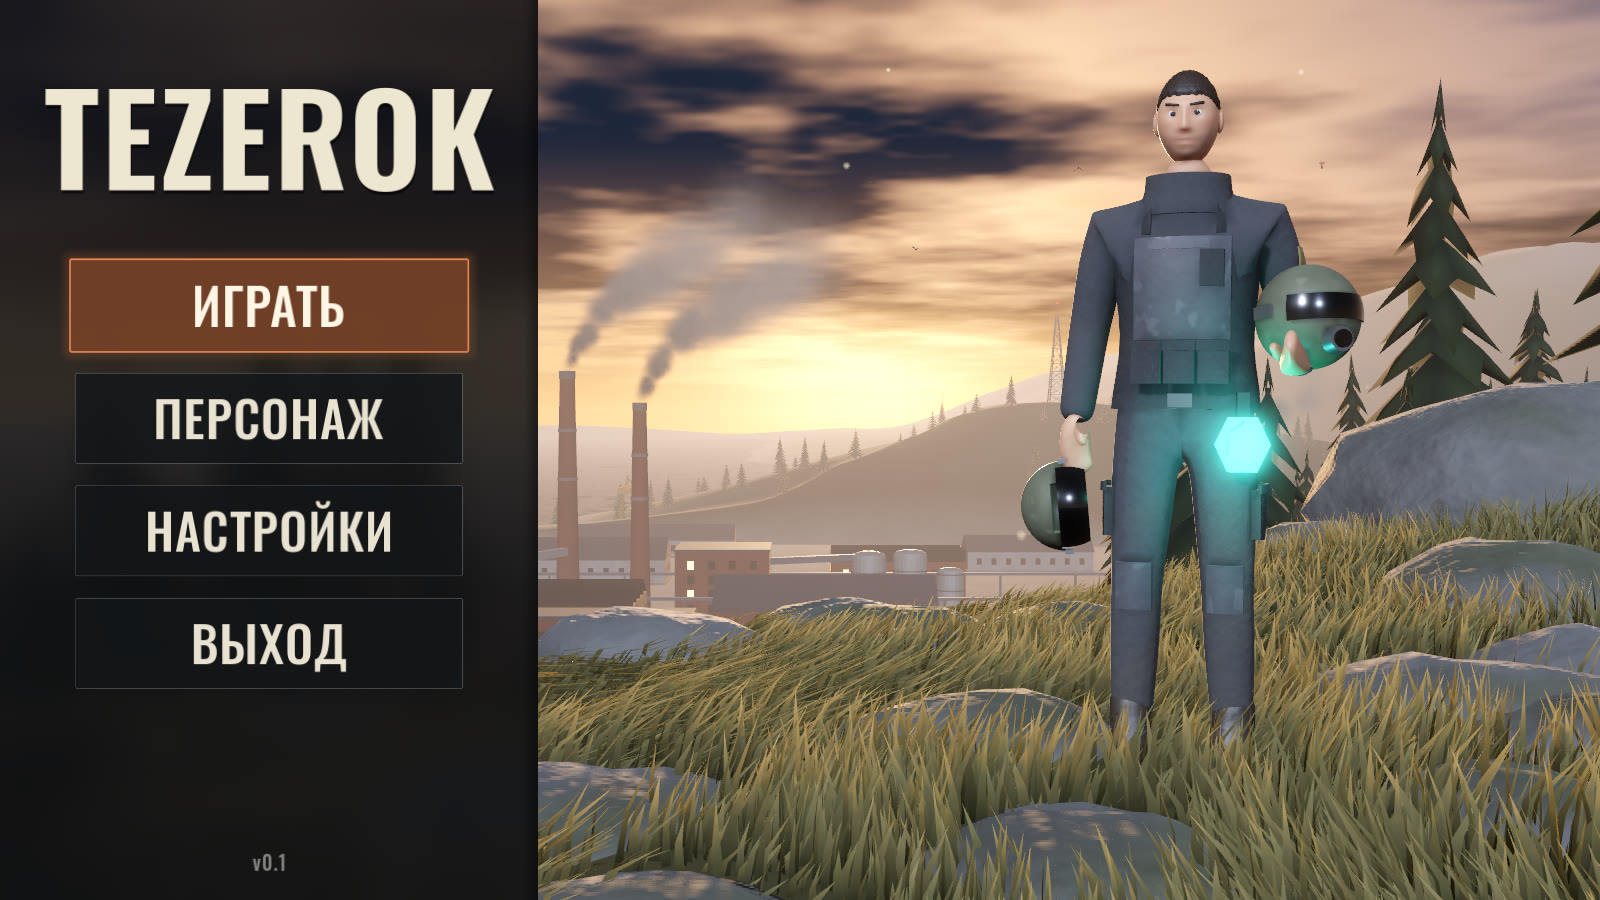
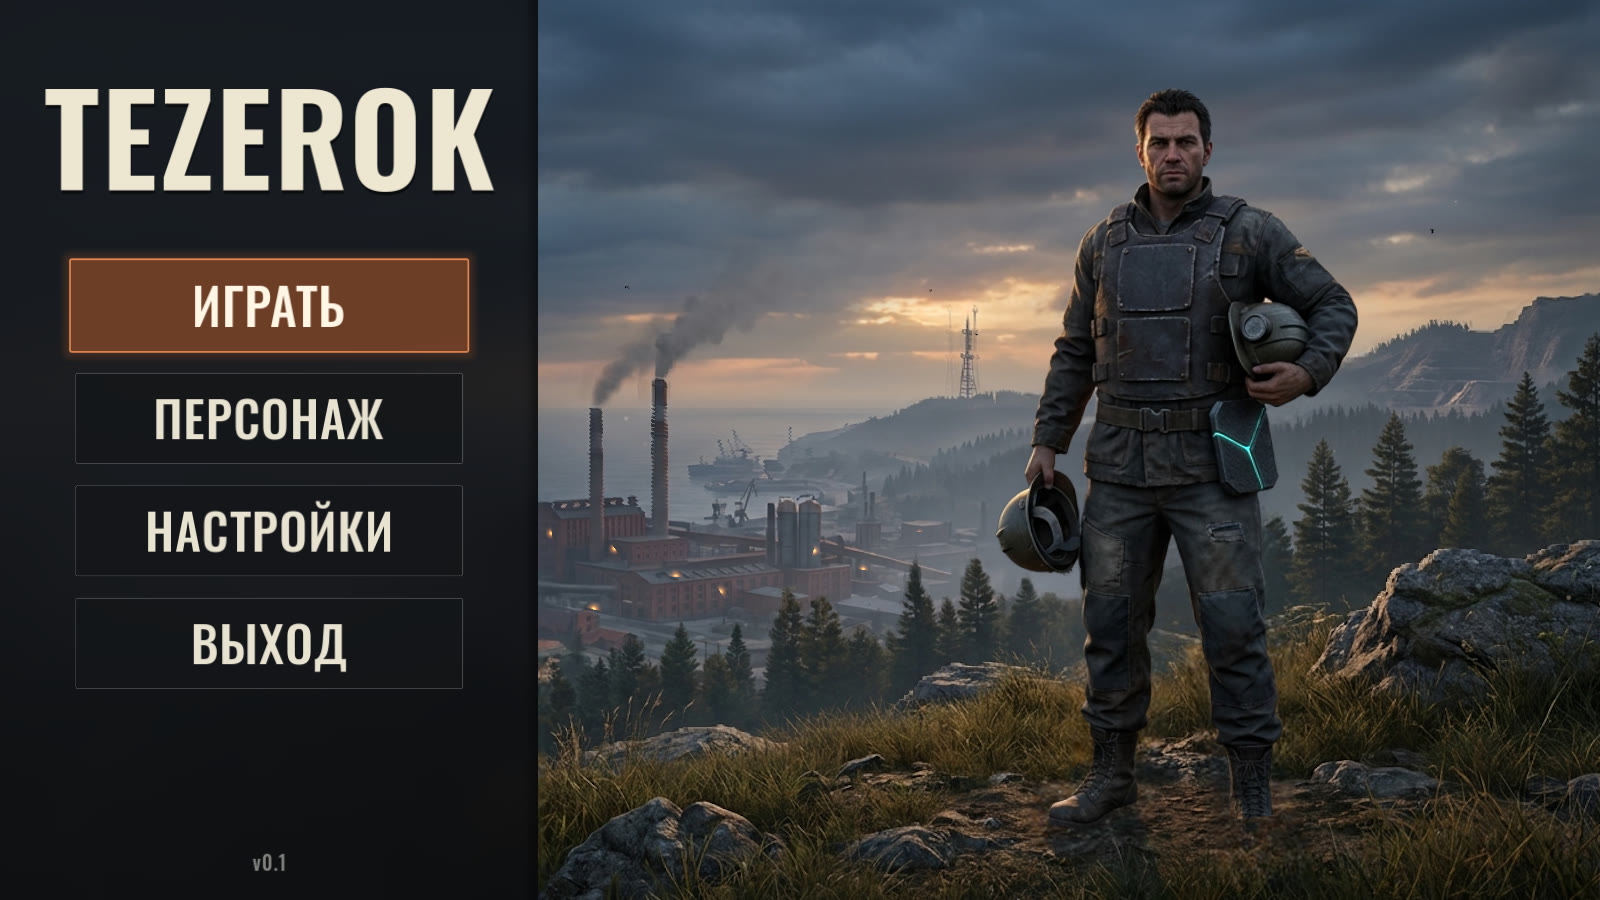
README: ИИ-конвейер реалистичного меню, новый скриншот

diff --git a/README.md b/README.md
@@ -1,6 +1,6 @@
 # TEZEROK
 
-Игра на **Godot 4.7**. Этап 1 — главное меню с живой 3D-сценой; модели сделаны в **Blender 5.2**.
+Игра на **Godot 4.7**. Этап 1 — главное меню с живой фотореалистичной 3D-сценой; модели сделаны с помощью ИИ и **Blender 5.2**.
 
 ![Главное меню](docs/main_menu.jpg)
 
@@ -9,27 +9,42 @@
 2. Откройте `project.godot` и нажмите **F5**. При первом открытии Godot импортирует модели — это займёт около минуты.
 
 ## Что есть в меню
-- **Персонаж**: куртка, бронежилет с подсумками, наколенники, ботинки, шлем в правой руке, шлем-респиратор под левой рукой и светящийся модуль на бедре. Зацикленная idle-анимация на 8 секунд: дыхание, лёгкое покачивание, поворот головы, покачивание шлема в руке.
-- **Живой фон**: облака плывут, из заводских труб идёт дым, трава и сосны качаются на ветру, мигает маяк на радиовышке, над долиной летают птицы, в воздухе висят пылинки, свечение модуля пульсирует. Камера слегка дрейфует и даёт параллакс за мышью.
+- **Фотореалистичная сцена по концепту**: фон и персонаж восстановлены из концепт-арта ИИ-моделями (см. ниже) и стоят в 3D — камера слегка дрейфует и даёт параллакс за мышью.
+- **Персонаж**: рельефная 3D-модель с ригом из 20 костей и зацикленной idle-анимацией на 8 секунд — дыхание, лёгкое покачивание, поворот головы, покачивание шлема в руке; модуль на бедре пульсирует голубым.
+- **Живой фон**: облака плывут, из труб идёт дым, по долине ползёт дымка, трава и деревья качаются на ветру, море рябит, по земле и персонажу проходят тени облаков, мигает маяк на вышке, мерцают огни завода, летают птицы, в воздухе висят пылинки.
 - **Кнопки**: «ИГРАТЬ», «ПЕРСОНАЖ» и «НАСТРОЙКИ» пока показывают подсказку «скоро» (это следующие этапы), «ВЫХОД» закрывает игру. Работают мышь, клавиатура (стрелки + Enter) и геймпад.
 
-## Модели (Blender)
-Модели генерируются скриптами — их можно менять и пересобирать:
+## Как сделаны модели (ИИ + Blender)
+Всё работает локально на CPU, без регистраций и ключей:
+
+| Шаг | Скрипт | ИИ-модель (лицензия) |
+| --- | --- | --- |
+| Глубина сцены и маска персонажа | `tools/ai_pipeline/analyze_reference.py` | Depth Anything V2 Small (Apache-2.0), rembg IS-Net (Apache-2.0) |
+| Фон без персонажа и интерфейса | `tools/ai_pipeline/clean_plate.py` | LaMa (Apache-2.0) |
+| Глубина в метрах, маски анимации, текстура персонажа | `tools/ai_pipeline/build_layers.py` | — |
+| 3D-модель фона и риг персонажа с анимацией | `blender/build_menu_scene.py` | Blender 5.2 |
 
 ```bash
-blender -b --factory-startup --python blender/build_player.py
-blender -b --factory-startup --python blender/build_environment.py
+uv venv .tools/aienv --python 3.12
+uv pip install --python .tools/aienv/bin/python torch torchvision --index-url https://download.pytorch.org/whl/cpu
+uv pip install --python .tools/aienv/bin/python transformers "rembg[cpu]" onnxruntime opencv-python-headless huggingface_hub
+.tools/aienv/bin/python tools/ai_pipeline/analyze_reference.py tools/ai_pipeline/work/reference.png
+.tools/aienv/bin/python tools/ai_pipeline/clean_plate.py
+.tools/aienv/bin/python tools/ai_pipeline/build_layers.py
+blender -b --factory-startup --python blender/build_menu_scene.py
+blender -b --factory-startup --python blender/build_props.py   # птица и текстура дыма
 ```
 
-Скрипты пишут `assets/models/*.glb` (их использует Godot) и `blender/*.blend` (для ручной правки в Blender).
-Добавьте `-- --preview <папка>` к первой команде, чтобы получить рендеры персонажа.
+Модели пишутся в `assets/models/*.glb` (их использует Godot) и `blender/menu_scene.blend` (для правки в Blender).
+Полноценную 360° модель персонажа для геймплея можно сгенерировать в TRELLIS.2 (Hugging Face, MIT), когда у бесплатной квоты есть время.
 
 ## Структура
 | Путь | Что внутри |
 | --- | --- |
 | `scenes/main_menu.tscn` | Главное меню: панель, кнопки, интро, подсказки |
-| `scenes/menu_world.tscn` | 3D-сцена меню: свет, небо, туман, камера, персонаж, окружение |
-| `scripts/` | Логика меню, материалов, дыма, птиц, маяка и камеры |
-| `shaders/` | Ветер для травы и сосен, облака, вода, ткань персонажа, размытие панели |
-| `blender/` | Генераторы моделей и файлы `.blend` |
-| `assets/` | Модели `.glb`, текстура дыма, шрифт Oswald (лицензия OFL) |
+| `scenes/menu_world.tscn` | 3D-сцена меню: камера, фон, персонаж |
+| `scripts/` | Логика меню, эффектов (дым, дымка, птицы, маяк, огни, пыль) и камеры |
+| `shaders/` | «Живая фотография» фона, персонаж, свечения, птицы, размытие панели |
+| `tools/ai_pipeline/` | ИИ-обработка концепта (глубина, маски, дорисовка фона) |
+| `blender/` | Сборка 3D-моделей и файлы `.blend` |
+| `assets/` | Модели `.glb`, текстуры сцены, текстура дыма, шрифт Oswald (лицензия OFL) |
